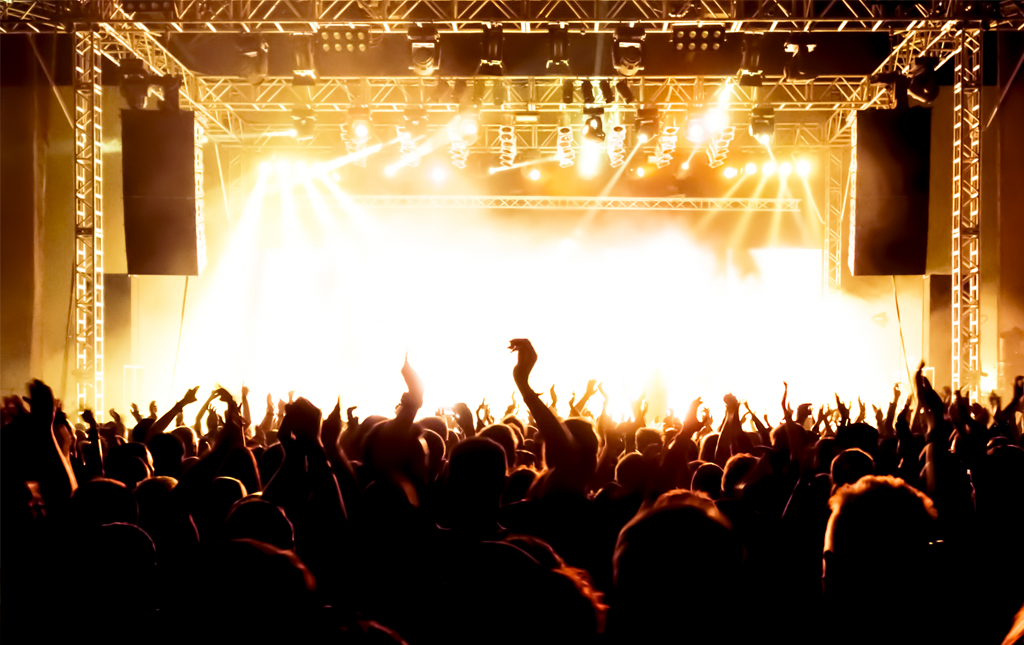
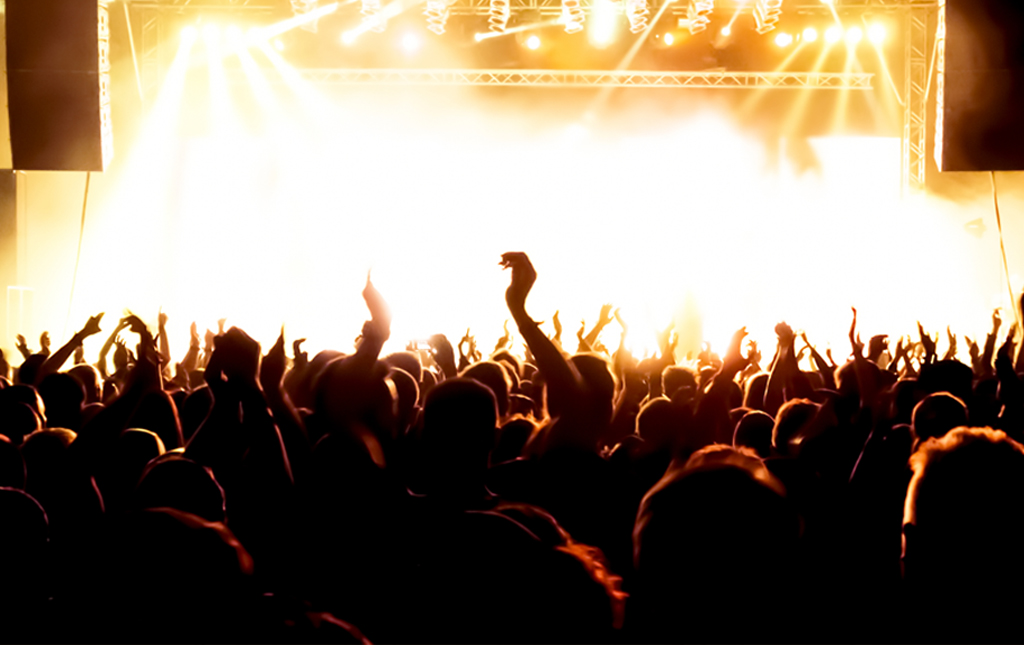
- Change contact us successful url, - Modify all events images to fit in the slideshow, - Return the nicescroll plugin and remove the mousewheel event

diff --git a/application/modules/nmm/views/index_view.php b/application/modules/nmm/views/index_view.php
@@ -220,89 +220,5 @@ function showNextQuote() {
 	++quoteIndex;
 	$(".feedback-message").eq(quoteIndex % $(".feedback-message").length).fadeIn(1000).delay(5000).fadeOut(1000, showNextQuote);
 }
-
-/* handle the mousewheel event together with 
- DOMMouseScroll to work on cross browser */
-$(document).on('mousewheel DOMMouseScroll', function (e) {
-	e.preventDefault();//prevent the default mousewheel scrolling
-	
-	var active = $('section.active');
-	//get the delta to determine the mousewheel scrol UP and DOWN
-	var delta = e.originalEvent.detail < 0 || e.originalEvent.wheelDelta > 0 ? 1 : -1;
-	
-	//if the delta value is negative, the user is scrolling down
-	if (delta < 0) {
-		//mousewheel down handler
-		var next = active.next();
-	   
-		//check if the next section exist and animate the anchoring
-		if (next.length) {
-		   /*setTimeout is here to prevent the scrolling animation
-			to jump to the topmost or bottom when 
-			the user scrolled very fast.*/
-			var timer = setTimeout(function () {
-				console.log(next.offset().top);
-				
-				/* animate the scrollTop by passing 
-				the elements offset top value */
-				$("html, body").stop(true, false).animate({ scrollTop: next.offset().top }, "slow");
-				
-				// move the indicator 'active' class
-				next.addClass('active').siblings().removeClass('active');
-				
-				clearTimeout(timer);
-			}, 200);
-		}
-
-	} else {
-		//mousewheel up handler
-		/*similar logic to the mousewheel down handler 
-		except that we are animate the anchoring 
-		to the previous sibling element*/
-		prev = active.prev();
-
-		if (prev.length) {
-			var timer = setTimeout(function () {
-				$('body, html').animate({
-					scrollTop: prev.offset().top
-				}, 'slow');
-
-				prev.addClass('active')
-					.siblings().removeClass('active');
-				
-				clearTimeout(timer);
-			}, 800);
-		}
-
-	}
-	
-	return false;
-});
-
-$(document).scroll(function(e){
-	if($(window).width() <= 580) {
-		if($(window).scrollTop() <= 1) {
-			$('section').removeClass('active');
-			$('section').first().addClass('active');
-		} else if($(window).scrollTop() <= 402) {
-			$('section').removeClass('active');
-			$('.content-2').addClass('active');
-		}
-	} else {
-		if($(window).scrollTop() <= 1) {
-			$('section').removeClass('active');
-			$('section').first().addClass('active');
-		} else if($(window).scrollTop() <= 678) {
-			$('section').removeClass('active');
-			$('.content-2').addClass('active');
-		} else if($(window).scrollTop() <= 1356) {
-			$('section').removeClass('active');
-			$('.content-3').addClass('active');
-		} else if($(window).scrollTop() <= 2034) {
-			$('section').removeClass('active');
-			$('.content-4').addClass('active');
-		}
-	}
-});
 </script>
 <?php echo modules::run('lift/auto_suggest_city')?>

diff --git a/application/modules/template/views/includes/header_view.php b/application/modules/template/views/includes/header_view.php
@@ -22,7 +22,7 @@
 	<link type="text/css" rel="stylesheet" href="<?php echo base_url('assets/css/editor.css')?>"/>
 	
 	<script type="text/javascript" src="<?php echo base_url('assets/js/jquery-1.11.0.min.js')?>"></script>
-	<script type="text/javascript" src="<?php //echo base_url('assets/js/jquery.nicescroll.min.js')?>"></script>
+	<script type="text/javascript" src="<?php echo base_url('assets/js/jquery.nicescroll.min.js')?>"></script>
 	<script type="text/javascript">
     document.createElement('section');
     document.createElement('aside');
@@ -30,16 +30,9 @@
     document.createElement('header'); 
     document.createElement('footer');
 	
-	var height = $(window).height();
-	var base_url = '<?php echo base_url()?>';
+	var height = $(window).height(), base_url = '<?php echo base_url()?>';
 	
-	$(function() { 
-		$('.login a:first-child').hover(function() { $('.login ul').stop(true, false).fadeIn().show(); }, function() { $('.login ul').fadeOut(); }); 
-		
-		$('.nav-dropdown').click(function() {
-			$('.menu ul').slideToggle();
-		});
-	});
+	$(function() {$('.login a:first-child').hover(function(){$('.login ul').stop(true,false).fadeIn().show();},function(){$('.login ul').fadeOut(); });$('.nav-dropdown').click(function(){ $('.menu ul').slideToggle();});$('html').niceScroll({autohidemode:'false',cursorborderradius:'0px',background:'#E5E9E7',cursorwidth:'10px',cursorcolor:'#999999'});});
 	</script>
 	<style type="text/css">.nicescroll-rails {z-index:99 !important;} .nicescroll-rails div {width:10px !important;}</style>
 </head>

diff --git a/application/config/routes.php b/application/config/routes.php
@@ -45,6 +45,7 @@ $route['rides/detail/(:any)'] 	= "lift/detail/5";
 $route['rides/index'] 			= "lift/index/";
 $route['rides/index/(:any)'] 	= "lift/index/5";
 $route['contact-us']			= "contact";
+$route['contact-us/successful']	= "contact/successfully";
 $route['privacy-policy']		= "privacy";
 $route['about-us']				= "about";
 $route['rides-wish-lift']		= "offer_wish_lift";

diff --git a/application/modules/contact/controllers/contact.php b/application/modules/contact/controllers/contact.php
@@ -27,7 +27,7 @@ class Contact extends MX_Controller {
 				if($this->form_validation->run() == TRUE):
 					modules::run('email/contactEmail', $this->input->post('name'), $this->input->post('email'), $this->input->post('message'));
 					
-					redirect('contact/successfully');
+					redirect('contact-us/successful');
 				endif;
 			endif;
 		endif;

diff --git a/application/modules/contact/views/contact_successfull_view.php b/application/modules/contact/views/contact_successfull_view.php
@@ -1,7 +1,6 @@
 <?php $this->load->view('header_content')?>
-<br /><br /><br />
 
-<div class="contact">
+<div class="contact m-center-content">
 	<h1>Contact Us Page</h1>
 	
 	<div>
